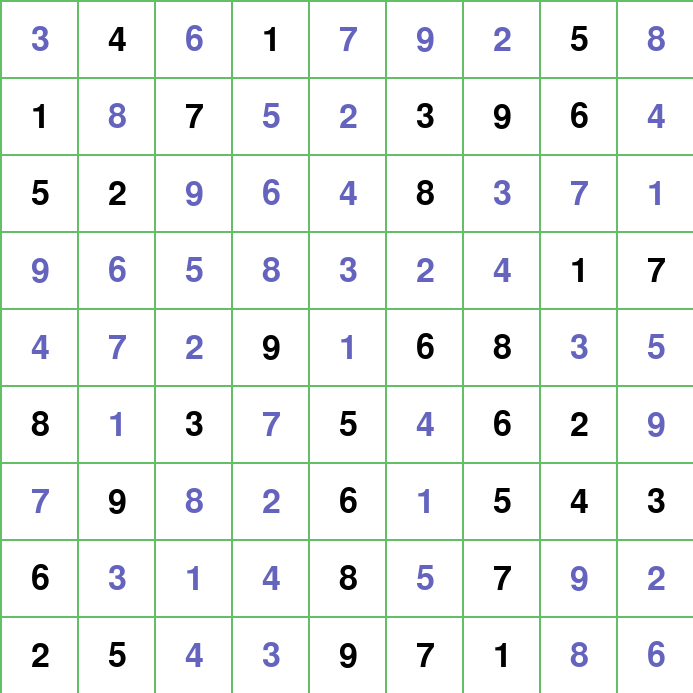
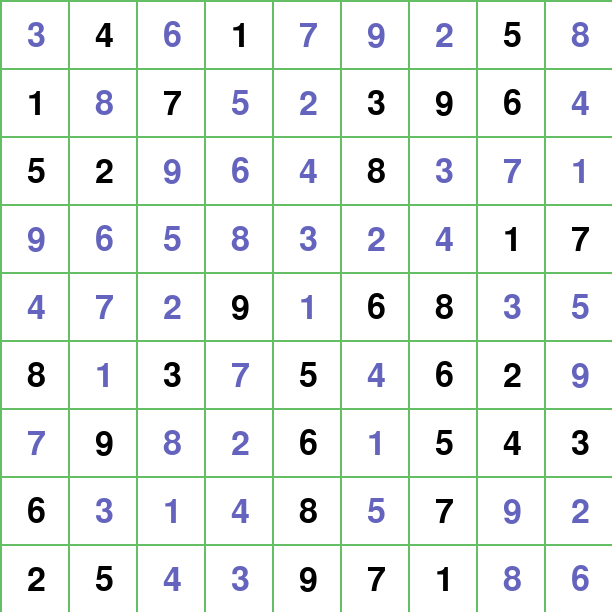
dim change

diff --git a/sudoku.py b/sudoku.py
@@ -8,8 +8,8 @@ font = pygame.font.SysFont('Anonymous Pro for Powerline', 50) # or None if you d
 pygame.display.set_caption('Sudoku Solver')
 
 # GLOBAL VARIABLES
-W = 693 # refer to test.py to get dimensions
-H = 693 # added 2 pixels for 3x3 subgrid emphasis with double lines
+W = 612 # refer to test.py to get dimensions
+H = 612 # added 2 pixels for 3x3 subgrid emphasis with double lines
 win = pygame.display.set_mode((W, H))   
 cellw = W // 9
 cellh = H // 9
